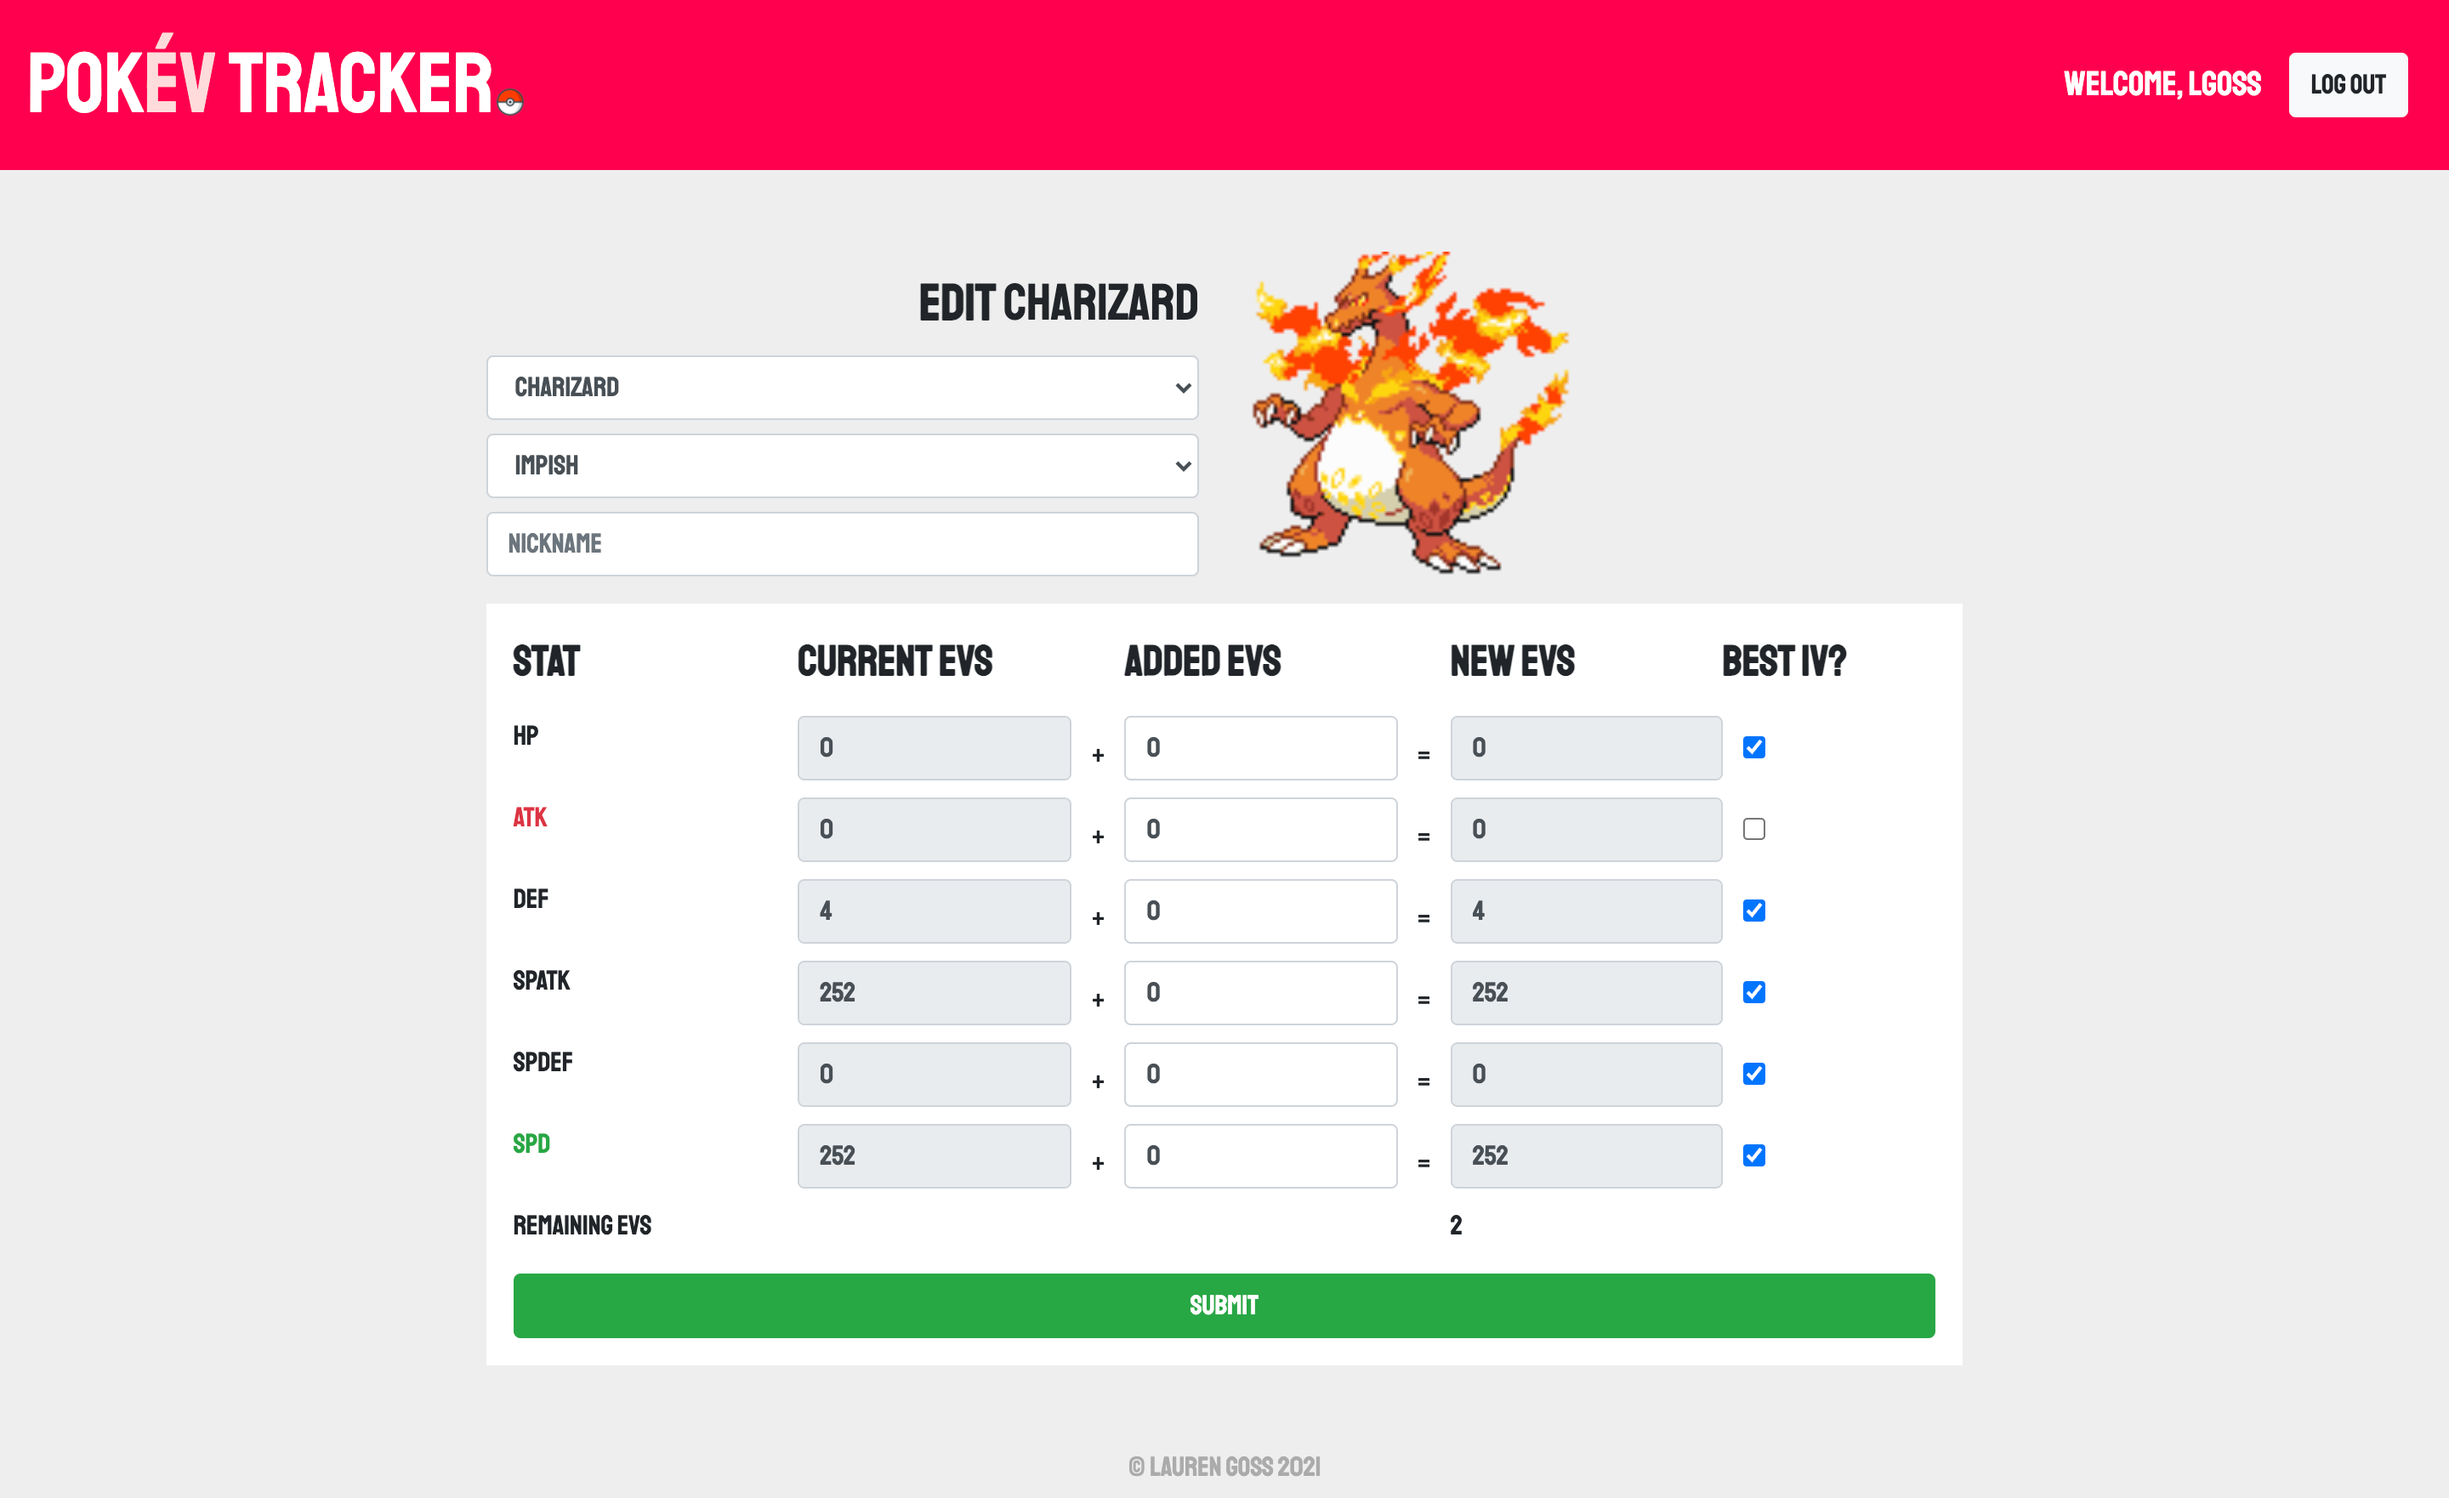
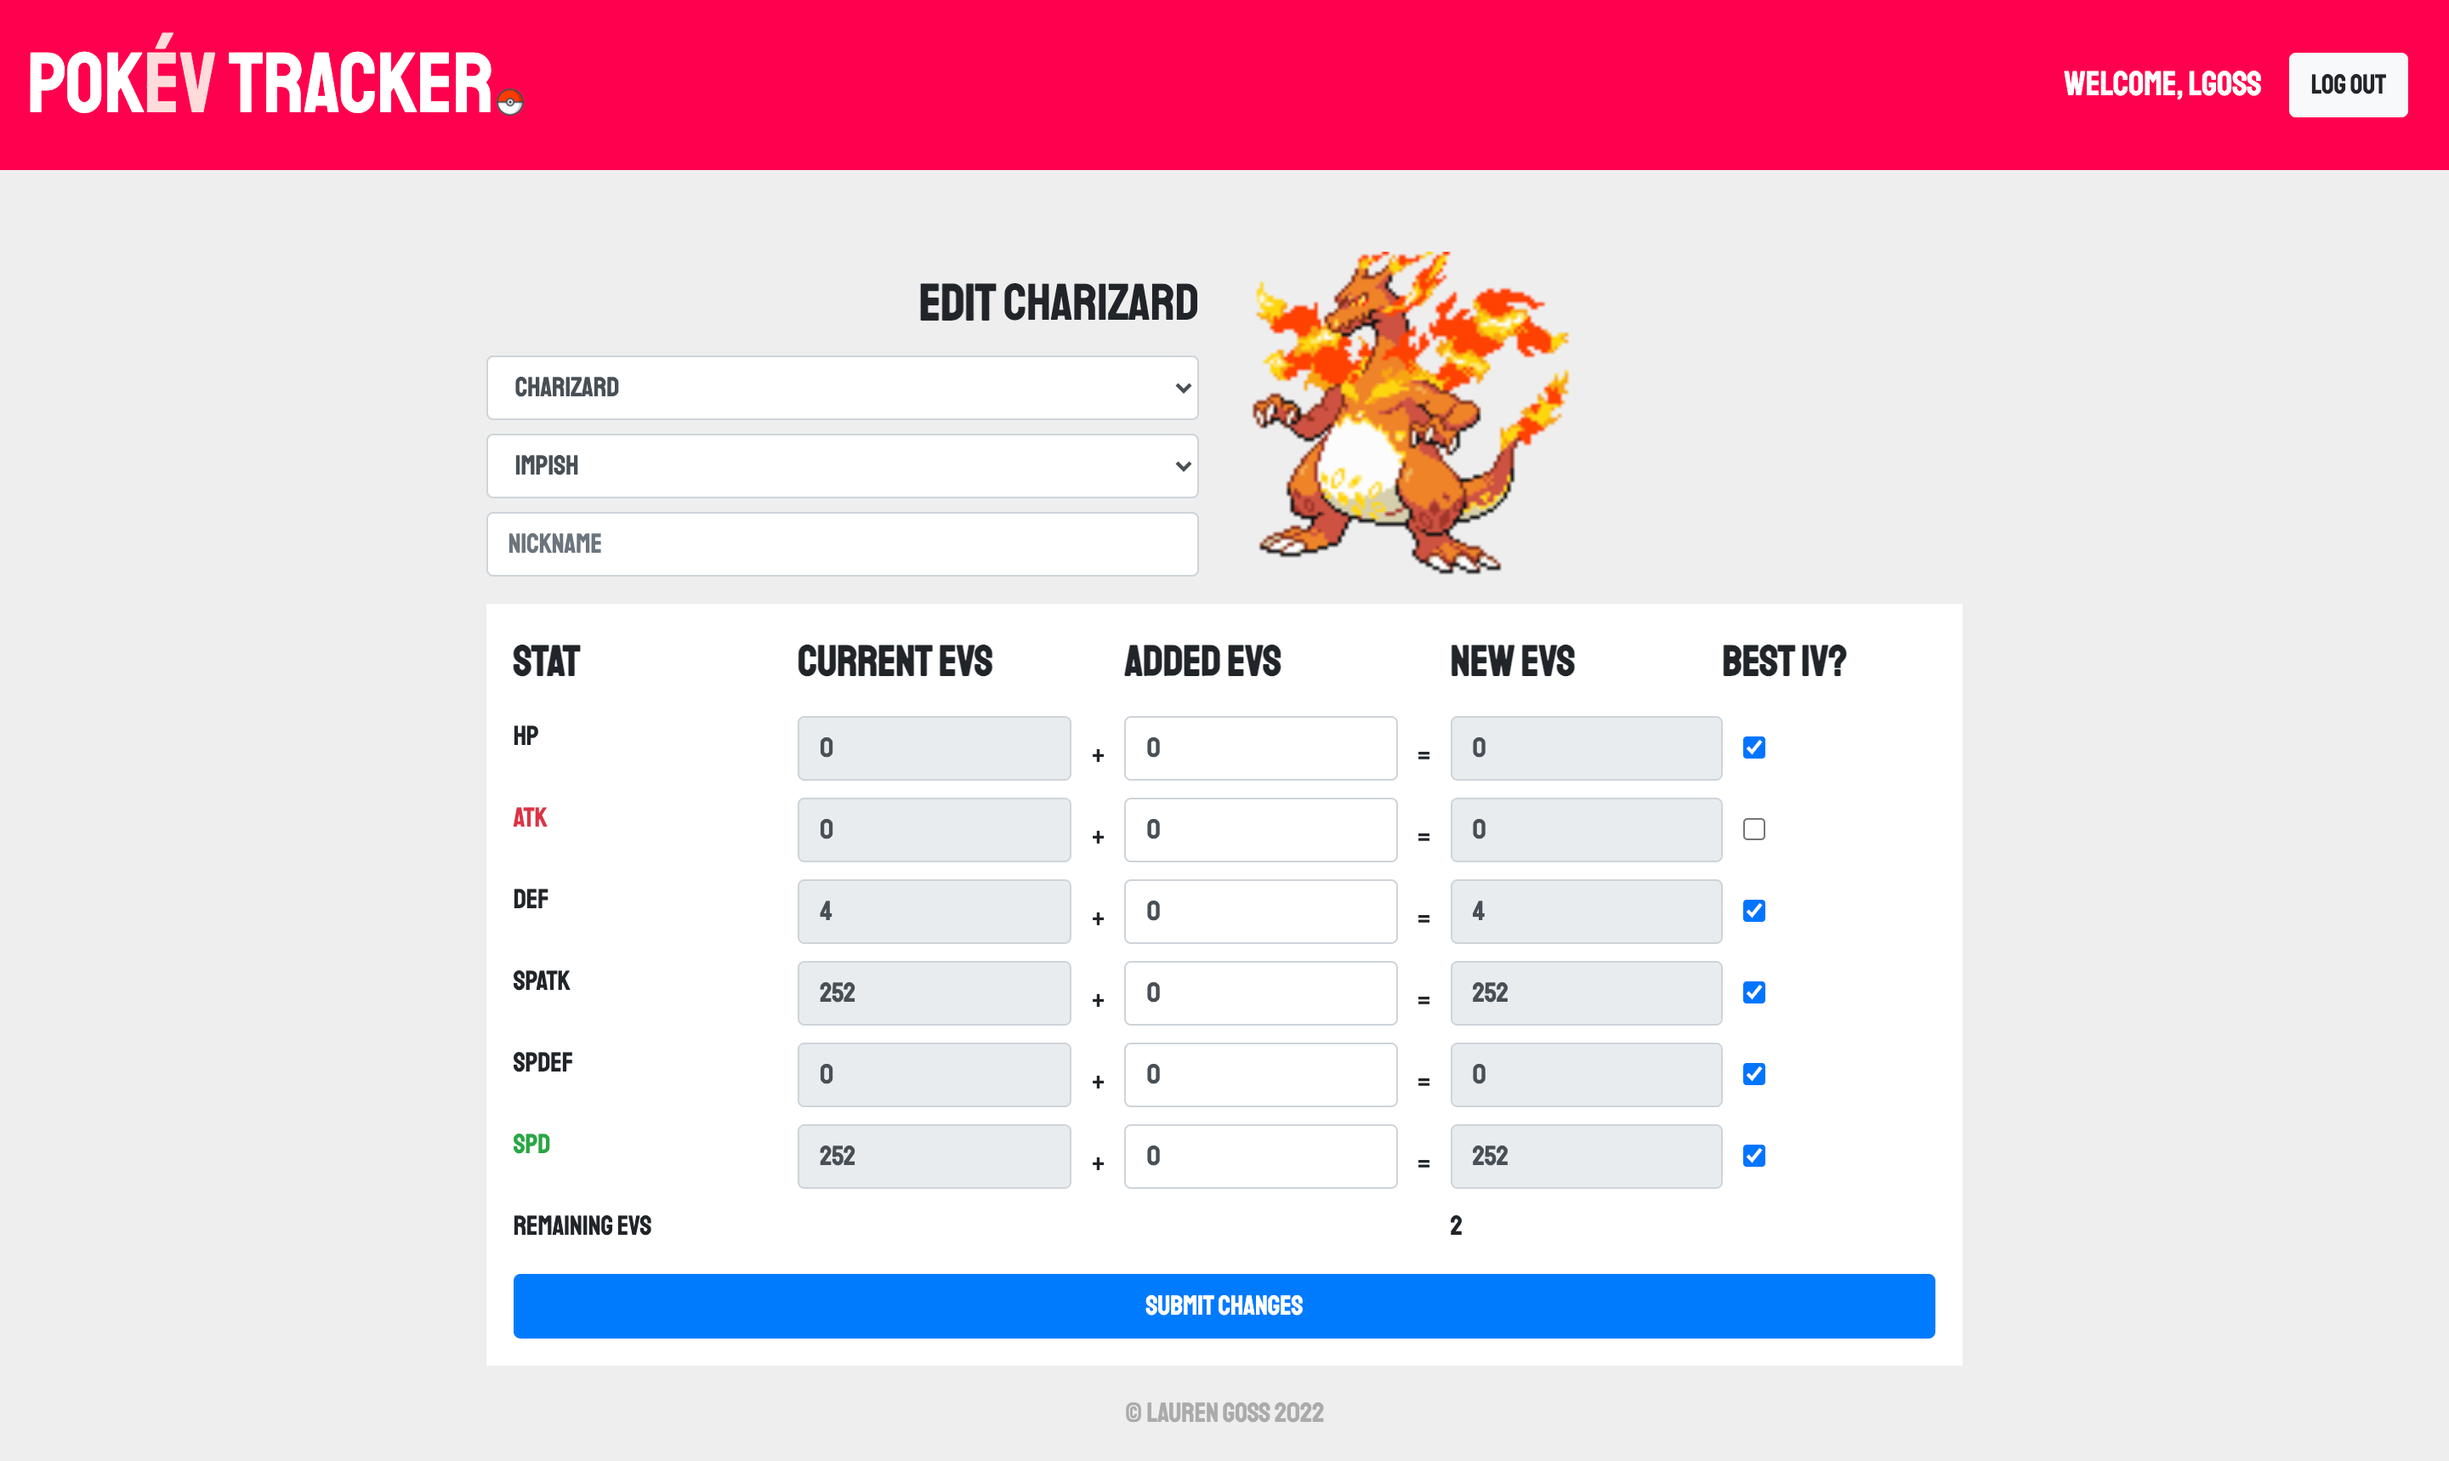
some styling changes, updated readme

diff --git a/client/src/components/EditPokemonForm.js b/client/src/components/EditPokemonForm.js
@@ -705,8 +705,8 @@ function EditPokemonForm({ pokemonData, natureArray, pokemonArray }) {
                 </tr>
               </tbody>
             </table>
-            <button style={styles.submitButton} className="btn btn-success">
-              Submit
+            <button style={styles.submitButton} className="btn btn-primary">
+              Submit Changes
             </button>
           </div>
         </div>

diff --git a/client/src/components/Welcome.js b/client/src/components/Welcome.js
@@ -49,7 +49,7 @@ function Welcome() {
             </p>
             <ul className="text-left">
               <li>
-                Keep track of each Pokémon's nature, nickname, IVs, and of
+                Keep track of each Pokémon's species, nature, nickname, IVs, and of
                 course EVs.
               </li>
               <li>

diff --git a/client/src/components/PokemonTable.js b/client/src/components/PokemonTable.js
@@ -68,7 +68,7 @@ function PokemonTable() {
                 <a
                   style={styles.button}
                   type="button"
-                  className="btn btn-success ml-auto"
+                  className="btn btn-primary ml-auto"
                   href="/addPokemon"
                 >
                   Add New Pokémon +

diff --git a/client/src/pages/AddPokemon.js b/client/src/pages/AddPokemon.js
@@ -542,7 +542,7 @@ function AddPokemon() {
                 </tr>
               </tbody>
             </table>
-            <button style={styles.submitButton} className="btn btn-success">
+            <button style={styles.submitButton} className="btn btn-primary">
               Submit
             </button>
           </div>

diff --git a/client/src/pages/Signup.js b/client/src/pages/Signup.js
@@ -133,7 +133,7 @@ const Signup = () => {
               </table>
               <button
                 style={styles.submitButton}
-                className="btn btn-success"
+                className="btn btn-primary"
                 type="submit"
               >
                 Sign Up

diff --git a/client/src/pages/Login.js b/client/src/pages/Login.js
@@ -126,7 +126,7 @@ const Login = () => {
               </table>
               <button
                 style={styles.submitButton}
-                className="btn btn-success"
+                className="btn btn-primary"
                 type="submit"
               >
                 Log In

diff --git a/README.md b/README.md
@@ -47,6 +47,10 @@ The deployed application can be found [here](https://pokev-tracker.herokuapp.com
 
 ## Screenshots
 
+### Welcome
+
+![Welcome](./client/src/images/welcome.png)
+
 ### Home
 
 ![Home](./client/src/images/home.png)
